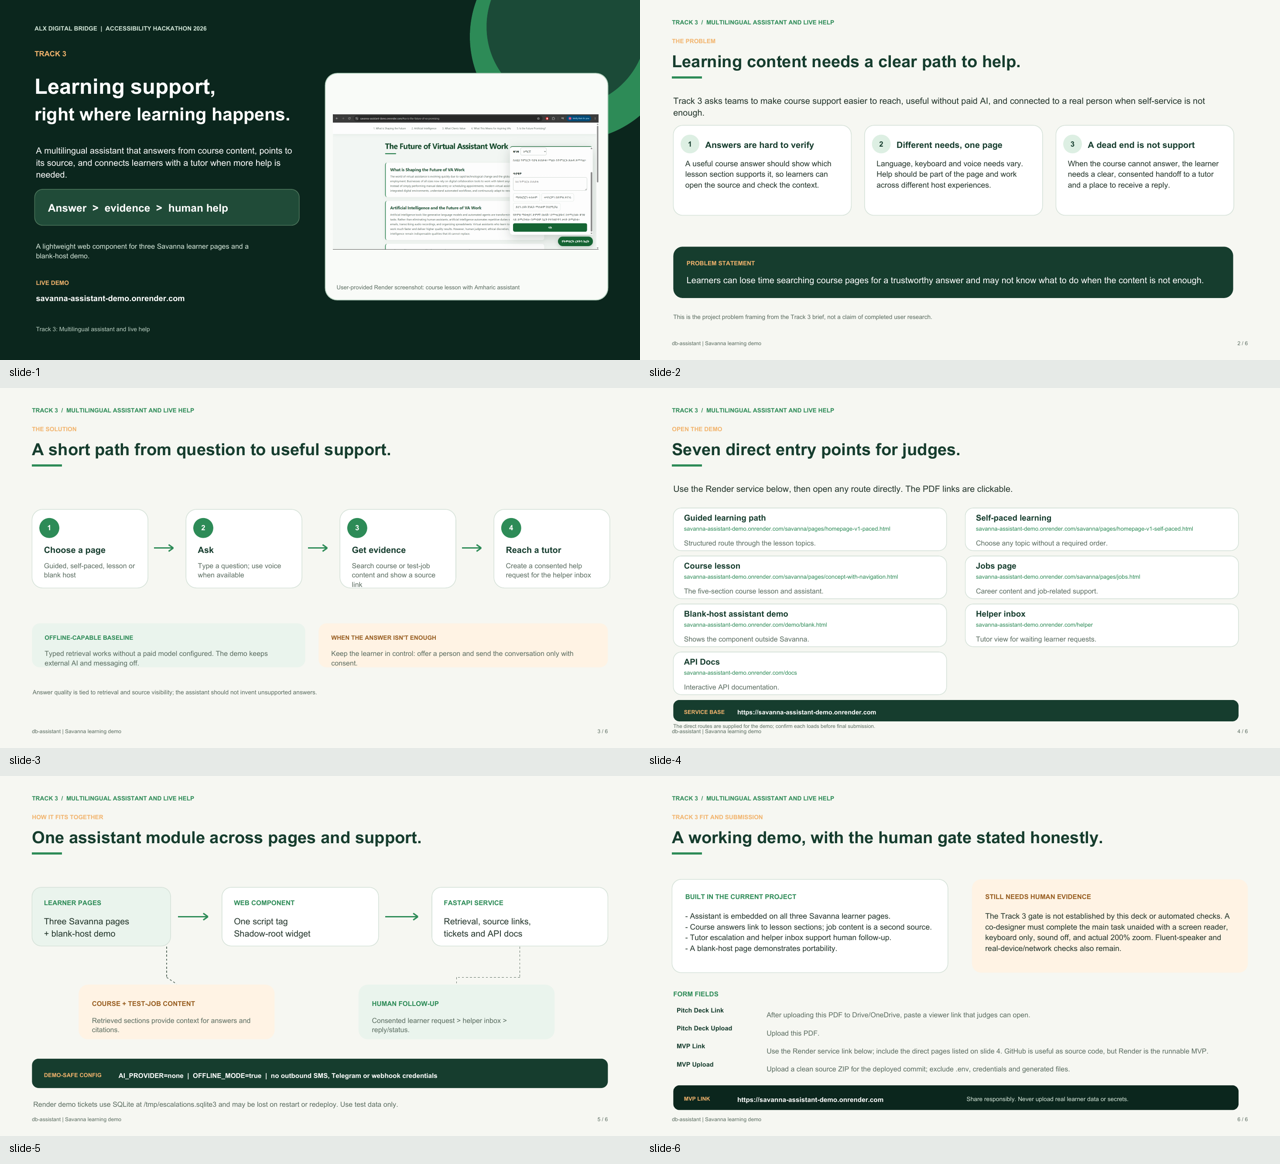
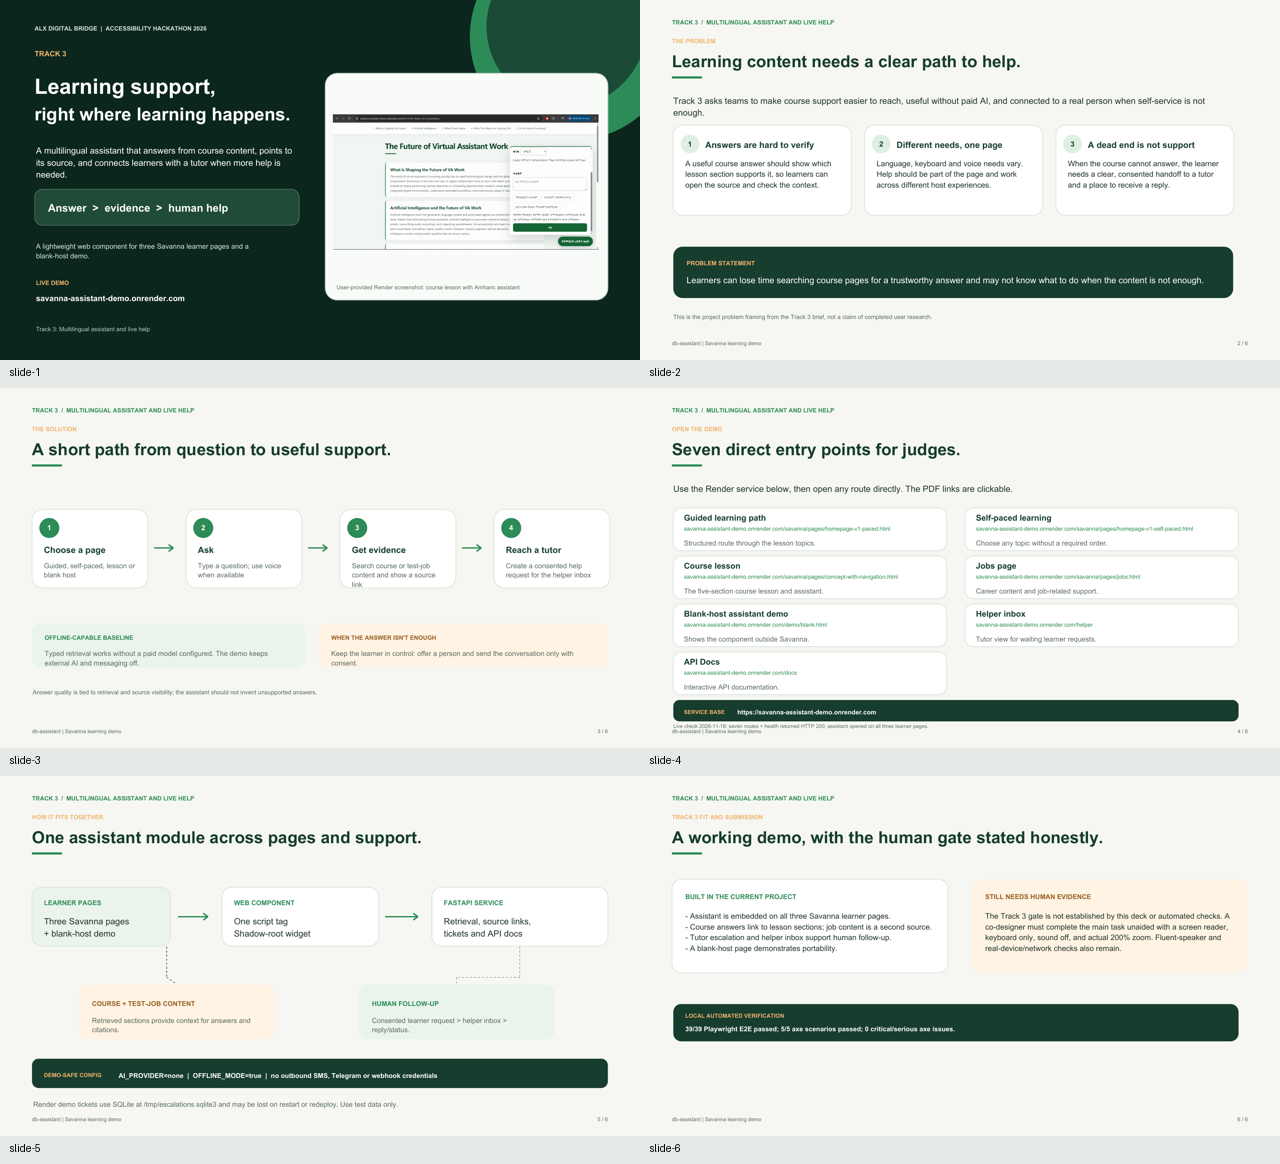
added the output of the module

Changed region(s): [[0.5, 0.8351, 0.9688, 0.9588]]

diff --git a/tmp/pdfs/build_track3_pitch_deck.py b/tmp/pdfs/build_track3_pitch_deck.py
@@ -207,7 +207,7 @@ rr(c, 50, 40, 848, 32, FOREST, None, 9)
 text(c, "SERVICE BASE", 66, 51, 8.2, AMBER, "Helvetica-Bold")
 text(c, BASE, 146, 50, 9.5, PAPER, "Helvetica-Bold")
 c.linkURL(BASE, (140, 43, 470, 67), relative=0, thickness=0)
-text(c, "The direct routes are supplied for the demo; confirm each loads before final submission.", 50, 30, 7.8, MUTED)
+text(c, "Live check 2026-11-16: seven routes + health returned HTTP 200; assistant opened on all three learner pages.", 50, 30, 7.8, MUTED)
 c.showPage()
 
 # Slide 5 - architecture and privacy
@@ -257,23 +257,9 @@ para(c, "- Assistant is embedded on all three Savanna learner pages.<br/>- Cours
 rr(c, 498, 245, 414, 140, HexColor("#FFF3E4"), None, 14)
 text(c, "STILL NEEDS HUMAN EVIDENCE", 518, 355, 10, HexColor("#985E21"), "Helvetica-Bold")
 para(c, "The Track 3 gate is not established by this deck or automated checks. A co-designer must complete the main task unaided with a screen reader, keyboard only, sound off, and actual 200% zoom. Fluent-speaker and real-device/network checks also remain.", 518, 337, 370, "card")
-text(c, "FORM FIELDS", 50, 209, 10, GREEN, "Helvetica-Bold")
-# form rows
-form_rows = [
-    ("Pitch Deck Link", "After uploading this PDF to Drive/OneDrive, paste a viewer link that judges can open."),
-    ("Pitch Deck Upload", "Upload this PDF."),
-    ("MVP Link", "Use the Render service link below; include the direct pages listed on slide 4. GitHub is useful as source code, but Render is the runnable MVP."),
-    ("MVP Upload", "Upload a clean source ZIP for the deployed commit; exclude .env, credentials and generated files."),
-]
-for idx, (name, desc) in enumerate(form_rows):
-    y = 185 - idx * 27
-    text(c, name, 55, y, 9.5, FOREST, "Helvetica-Bold")
-    para(c, desc, 190, y + 3, 700, "small")
-rr(c, 50, 39, 848, 37, DEEP, None, 9)
-text(c, "MVP LINK", 66, 53, 8.2, AMBER, "Helvetica-Bold")
-text(c, BASE, 146, 51, 10, PAPER, "Helvetica-Bold")
-c.linkURL(BASE, (140, 43, 460, 68), relative=0, thickness=0)
-text(c, "Share responsibly. Never upload real learner data or secrets.", 490, 52, 9, HexColor("#D6E7DA"))
+rr(c, 50, 142, 848, 56, FOREST, None, 12)
+text(c, "LOCAL AUTOMATED VERIFICATION", 68, 177, 8.5, AMBER, "Helvetica-Bold")
+text(c, "39/39 Playwright E2E passed; 5/5 axe scenarios passed; 0 critical/serious axe issues.", 68, 157, 10, PAPER, "Helvetica-Bold")
 c.showPage()
 
 c.save()
